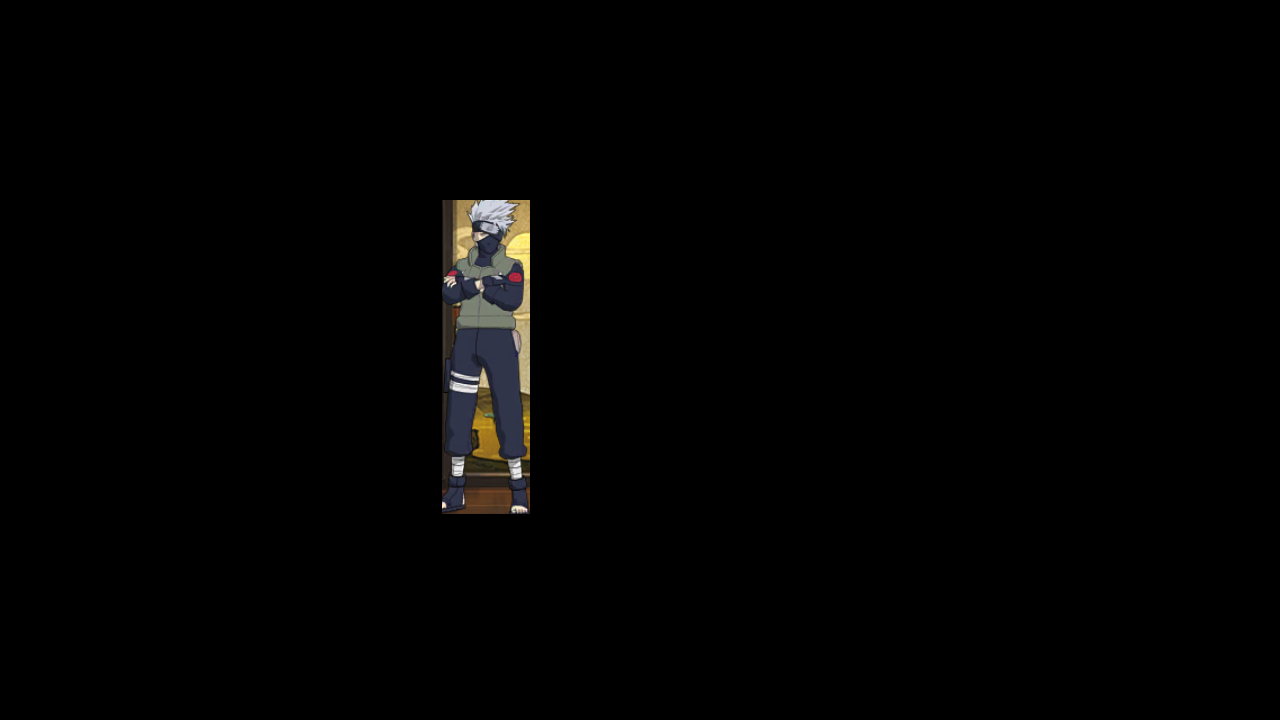
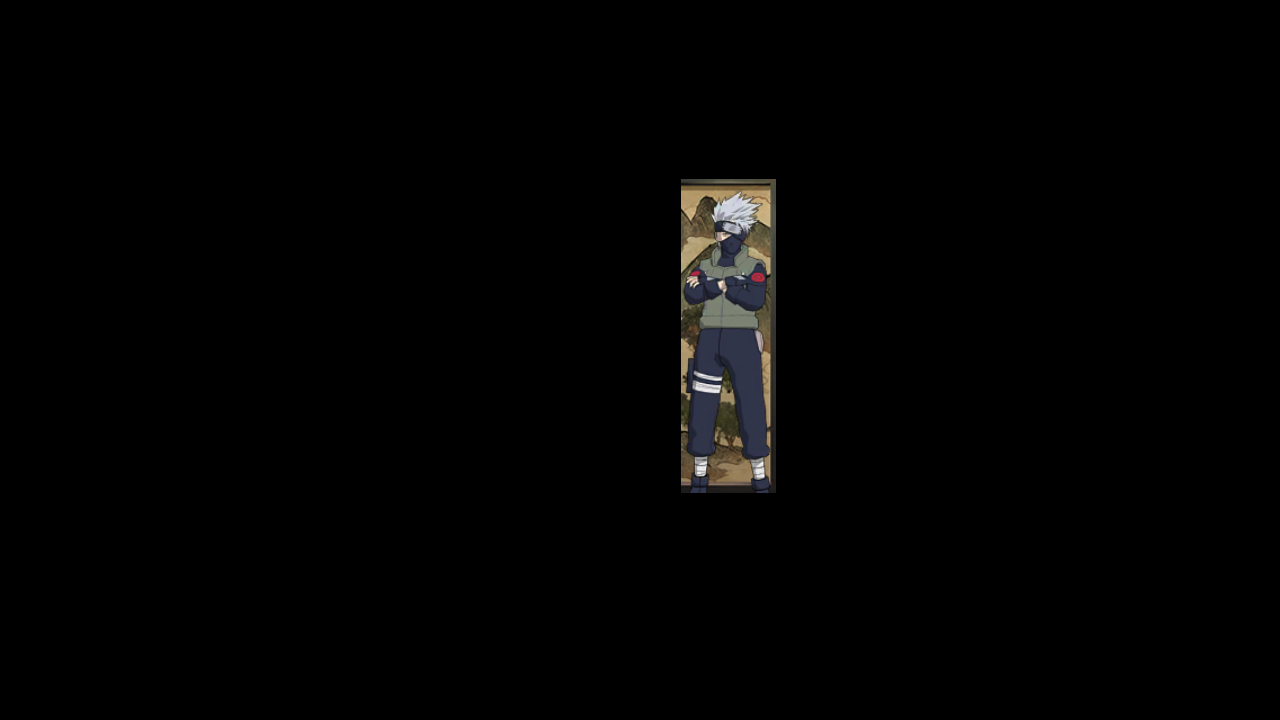
fix: 更新叛忍按钮

Changed region(s): [[0.5312, 0.2444, 0.625, 0.7028], [0.3438, 0.275, 0.4375, 0.7333]]

diff --git a/tasks/organization/assets/assets_organization_pan_ren.py b/tasks/organization/assets/assets_organization_pan_ren.py
@@ -18,10 +18,10 @@ ORGANIZATION_GOTO_PAN_REN = ButtonWrapper(
     name='ORGANIZATION_GOTO_PAN_REN',
     cn=Button(
         file='./assets/cn/organization/pan_ren/ORGANIZATION_GOTO_PAN_REN.png',
-        area=(442, 200, 530, 514),
-        search=(422, 180, 550, 534),
-        color=(94, 87, 78),
-        button=(442, 200, 530, 514),
+        area=(681, 179, 776, 493),
+        search=(661, 159, 796, 513),
+        color=(90, 85, 79),
+        button=(681, 179, 776, 493),
     ),
     en=None,
 )
